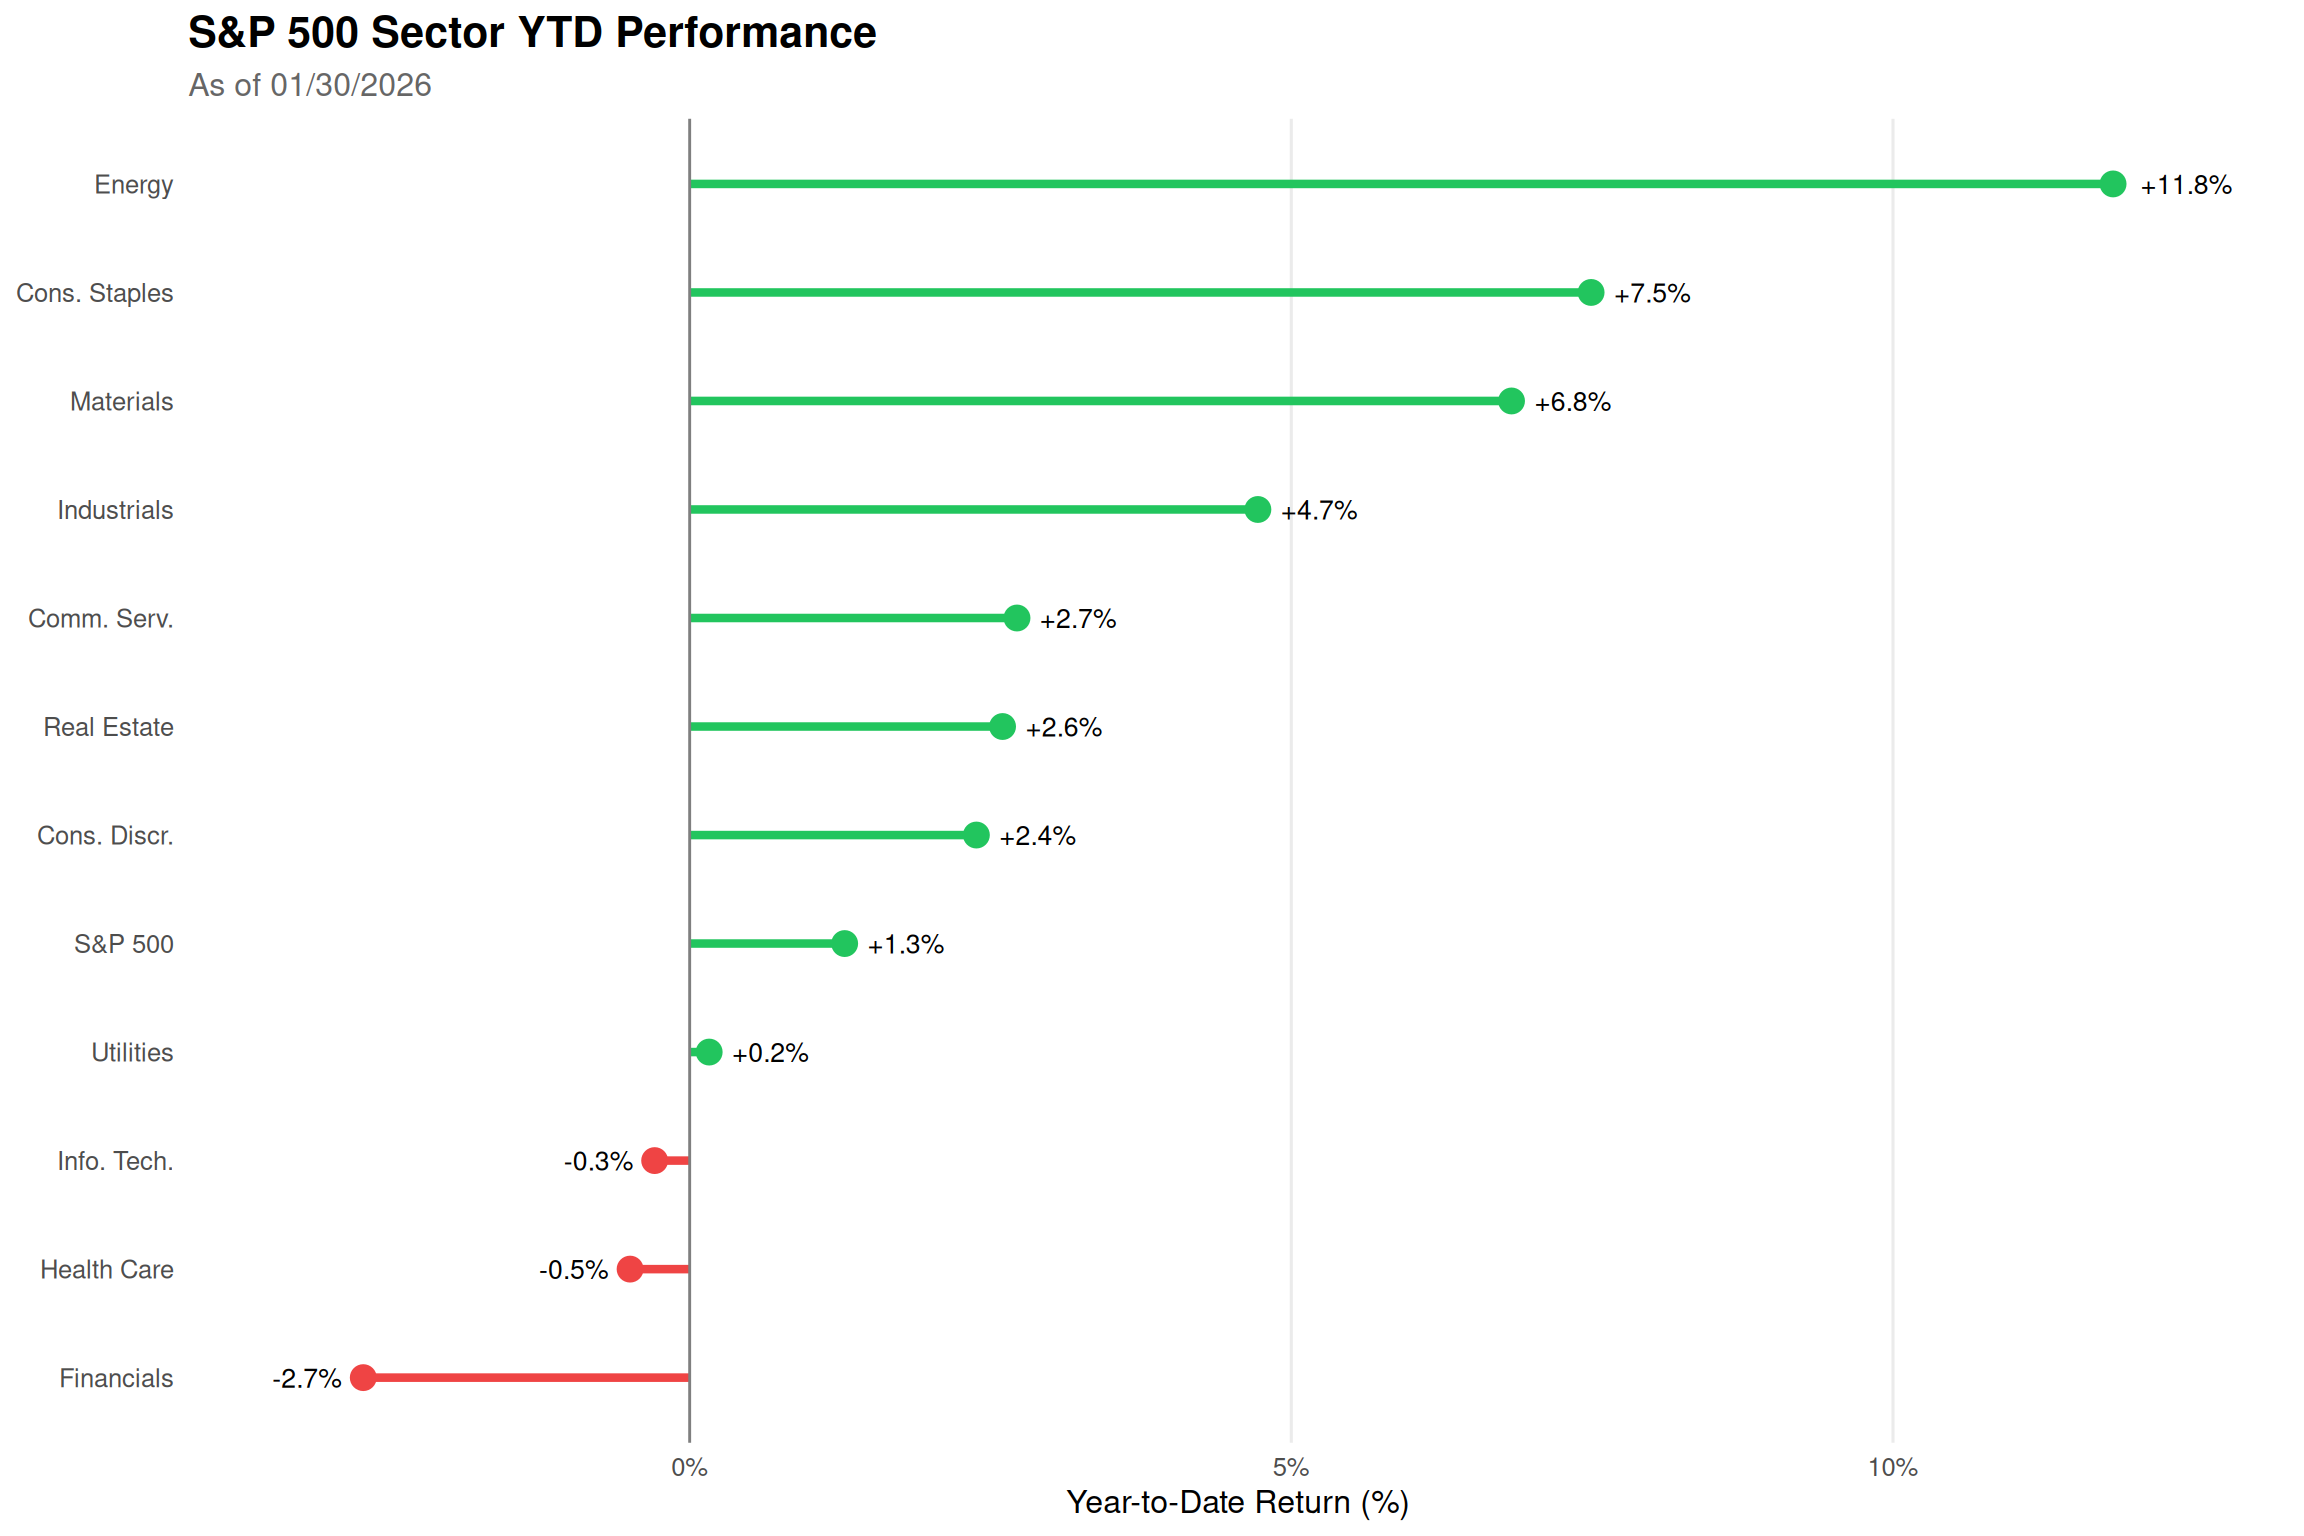
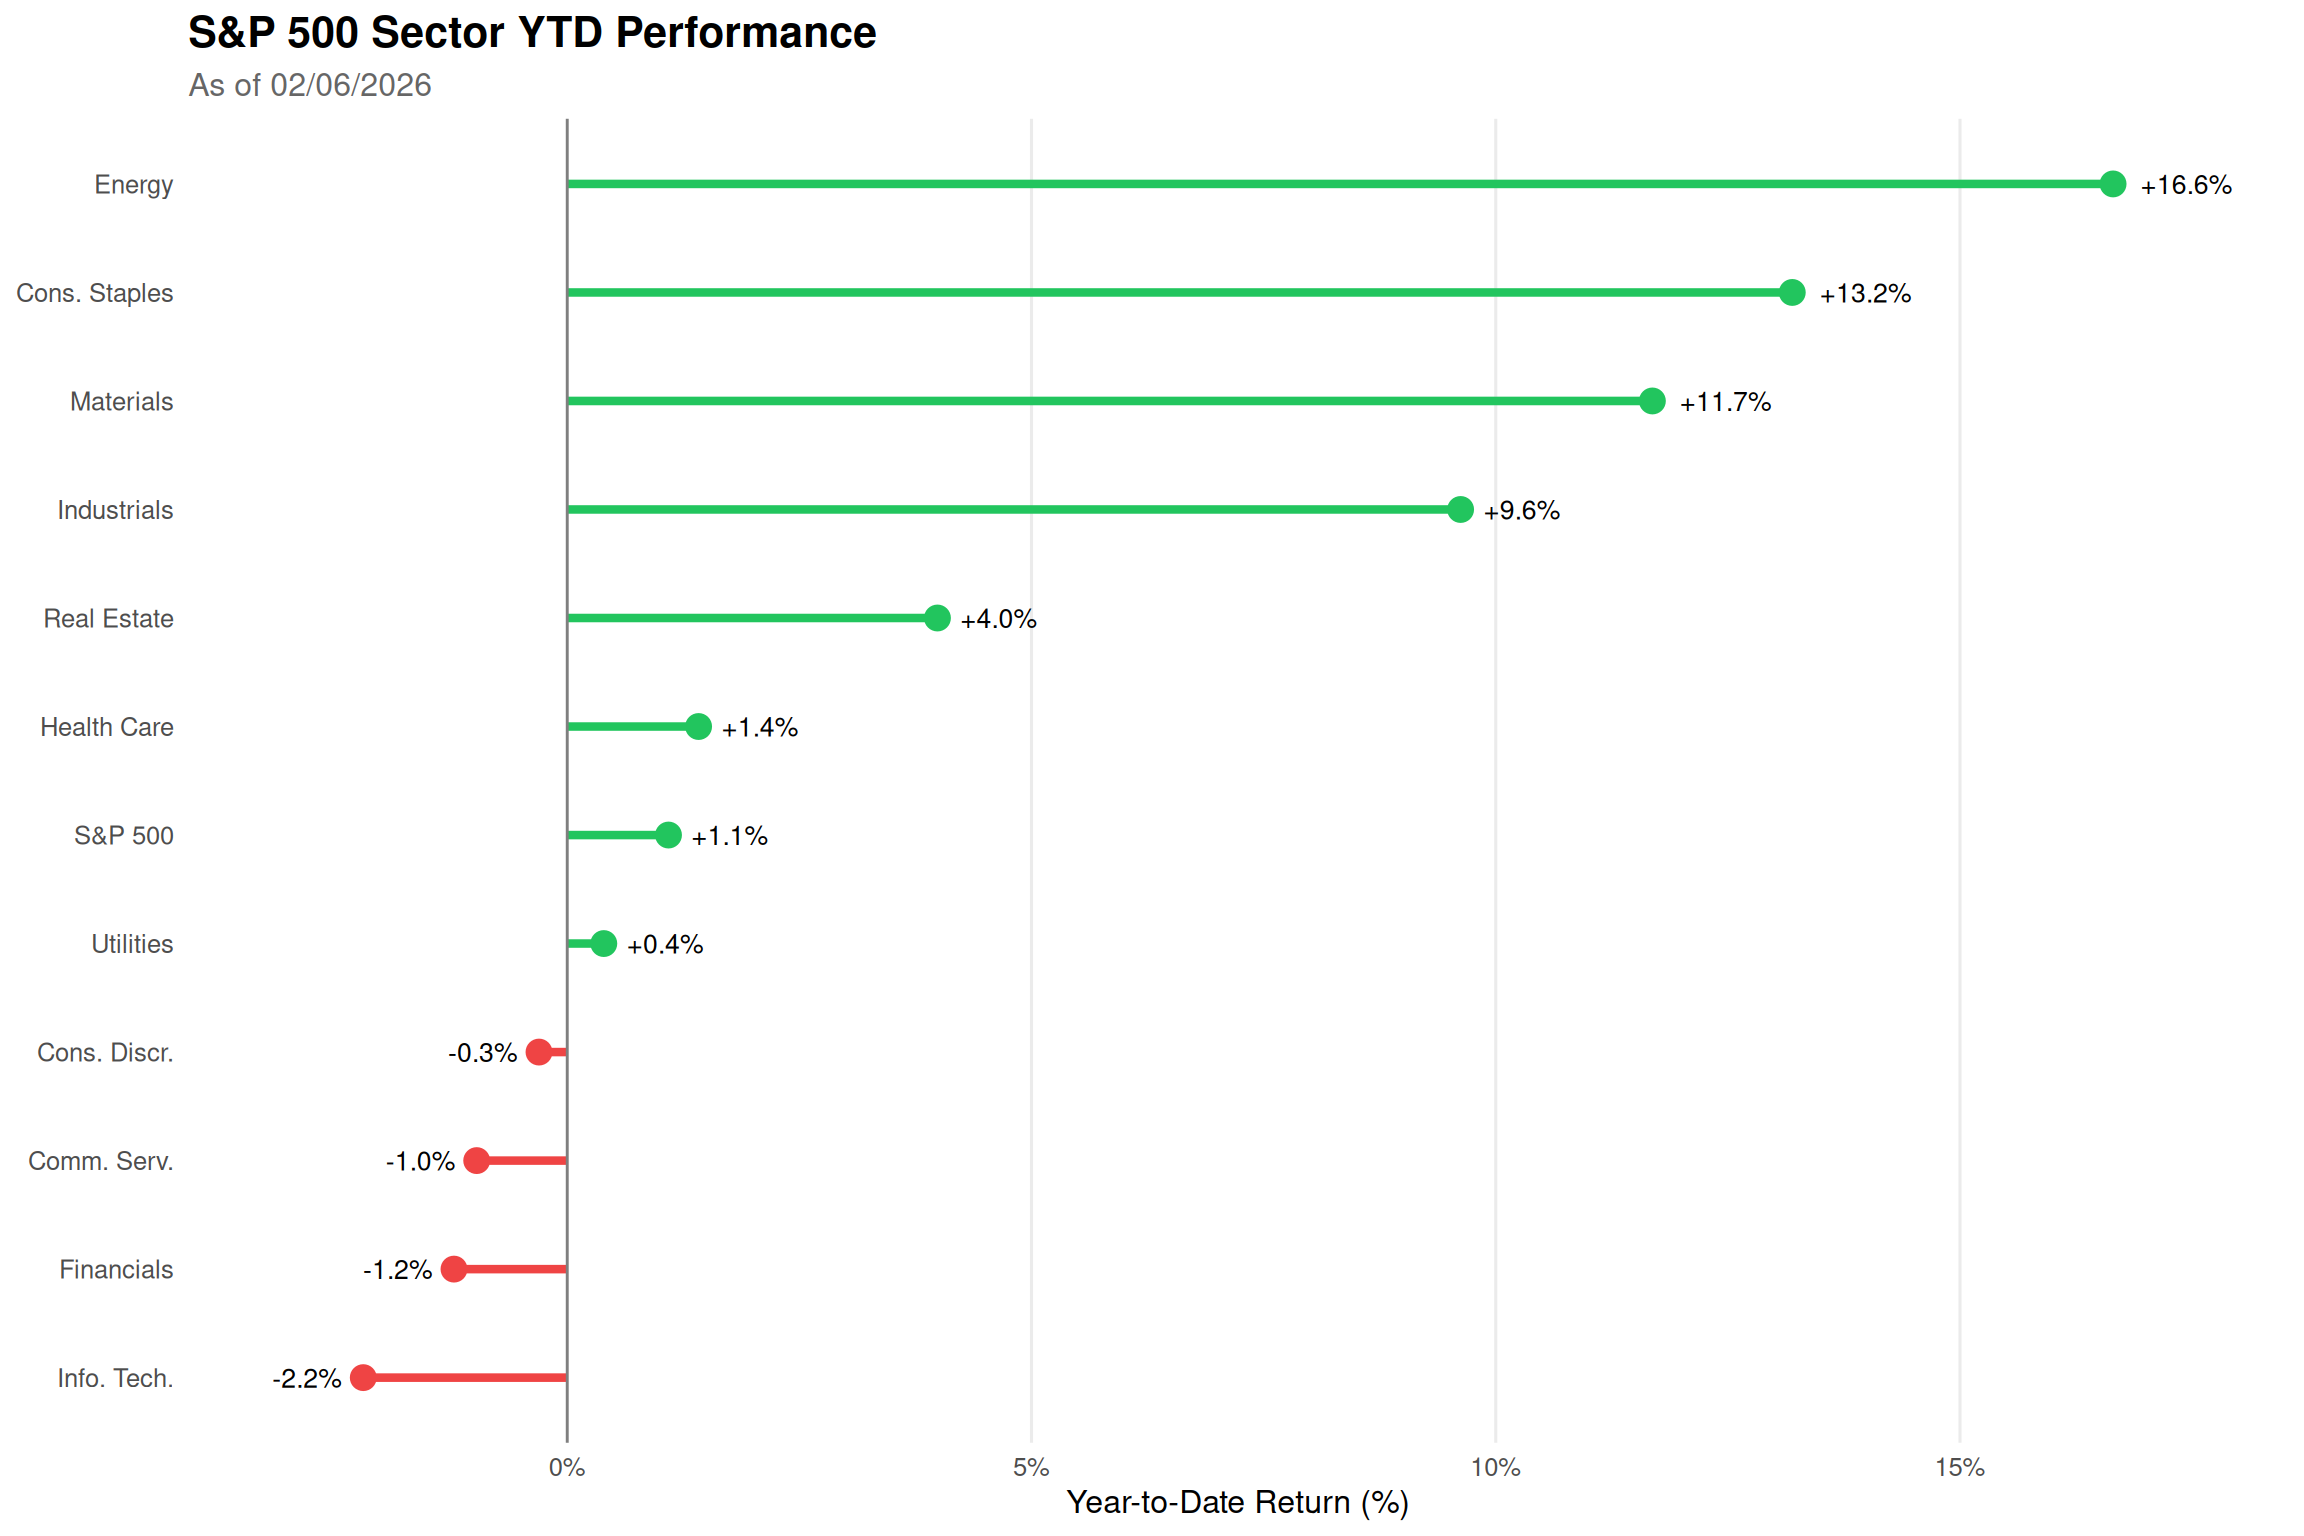
🎨 Render weekly posts (tidytuesday)

diff --git a/docs/quarto/latest/posts/2026-02-04-tidytuesday/index.html b/docs/quarto/latest/posts/2026-02-04-tidytuesday/index.html
@@ -391,7 +391,7 @@ pre > code.sourceCode > span > a:first-child::before { text-decoration: underlin
 </details>
 <div class="cell-output cell-output-stdout">
 <pre><code>Data loaded successfully!
-Records: 12Data date: 2026-01-30</code></pre>
+Records: 12Data date: 2026-02-06</code></pre>
 </div>
 </div>
 <div class="cell">
@@ -427,7 +427,7 @@ Columns: 4
 $ sector     &lt;fct&gt; Energy, Energy, Health Care, Health Care, Utilities, Utilit…
 $ sort_order &lt;int&gt; 0, 0, 1, 1, 2, 2, 3, 3, 4, 4, 5, 5, 6, 6, 7, 7, 8, 8, 9, 9,…
 $ metric     &lt;fct&gt; Daily, Year-to-date, Daily, Year-to-date, Daily, Year-to-da…
-$ value      &lt;dbl&gt; 1.06909708, 11.82912931, 0.59810046, -0.49513796, -0.184633…</code></pre>
+$ value      &lt;dbl&gt; 1.9919574, 16.6484079, 1.8535330, 1.4147079, 0.5800464, 0.3…</code></pre>
 </div>
 </div>
 </section>
@@ -530,63 +530,63 @@ $ value      &lt;dbl&gt; 1.06909708, 11.82912931, 0.59810046, -0.49513796, -0.18
 <tbody>
 <tr class="odd">
 <td style="text-align: left;">Energy</td>
-<td style="text-align: right;">+1.07%</td>
-<td style="text-align: right;">+11.83%</td>
+<td style="text-align: right;">+1.99%</td>
+<td style="text-align: right;">+16.65%</td>
 </tr>
 <tr class="even">
 <td style="text-align: left;">Health Care</td>
-<td style="text-align: right;">+0.60%</td>
-<td style="text-align: right;">-0.50%</td>
+<td style="text-align: right;">+1.85%</td>
+<td style="text-align: right;">+1.41%</td>
 </tr>
 <tr class="odd">
 <td style="text-align: left;">Utilities</td>
-<td style="text-align: right;">-0.18%</td>
-<td style="text-align: right;">+0.16%</td>
+<td style="text-align: right;">+0.58%</td>
+<td style="text-align: right;">+0.39%</td>
 </tr>
 <tr class="even">
 <td style="text-align: left;">Materials</td>
-<td style="text-align: right;">-1.46%</td>
-<td style="text-align: right;">+6.83%</td>
+<td style="text-align: right;">+2.00%</td>
+<td style="text-align: right;">+11.69%</td>
 </tr>
 <tr class="odd">
 <td style="text-align: left;">Real Estate</td>
-<td style="text-align: right;">+0.15%</td>
-<td style="text-align: right;">+2.60%</td>
+<td style="text-align: right;">+1.84%</td>
+<td style="text-align: right;">+3.99%</td>
 </tr>
 <tr class="even">
 <td style="text-align: left;">Financials</td>
-<td style="text-align: right;">-0.21%</td>
-<td style="text-align: right;">-2.71%</td>
+<td style="text-align: right;">+1.82%</td>
+<td style="text-align: right;">-1.22%</td>
 </tr>
 <tr class="odd">
 <td style="text-align: left;">Cons. Staples</td>
-<td style="text-align: right;">+1.68%</td>
-<td style="text-align: right;">+7.49%</td>
+<td style="text-align: right;">+1.17%</td>
+<td style="text-align: right;">+13.19%</td>
 </tr>
 <tr class="even">
 <td style="text-align: left;">Industrials</td>
-<td style="text-align: right;">-0.25%</td>
-<td style="text-align: right;">+4.72%</td>
+<td style="text-align: right;">+2.86%</td>
+<td style="text-align: right;">+9.62%</td>
 </tr>
 <tr class="odd">
 <td style="text-align: left;">S&amp;P 500</td>
-<td style="text-align: right;">-0.30%</td>
-<td style="text-align: right;">+1.29%</td>
+<td style="text-align: right;">+1.92%</td>
+<td style="text-align: right;">+1.09%</td>
 </tr>
 <tr class="even">
 <td style="text-align: left;">Comm. Serv.</td>
-<td style="text-align: right;">+0.24%</td>
-<td style="text-align: right;">+2.72%</td>
+<td style="text-align: right;">-0.39%</td>
+<td style="text-align: right;">-0.98%</td>
 </tr>
 <tr class="odd">
 <td style="text-align: left;">Info. Tech.</td>
-<td style="text-align: right;">-2.04%</td>
-<td style="text-align: right;">-0.29%</td>
+<td style="text-align: right;">+4.06%</td>
+<td style="text-align: right;">-2.20%</td>
 </tr>
 <tr class="even">
 <td style="text-align: left;">Cons. Discr.</td>
-<td style="text-align: right;">-0.02%</td>
-<td style="text-align: right;">+2.38%</td>
+<td style="text-align: right;">+0.41%</td>
+<td style="text-align: right;">-0.30%</td>
 </tr>
 </tbody>
 </table>

diff --git a/docs/quarto/latest/posts/2026-01-28-tidytuesday/index.html b/docs/quarto/latest/posts/2026-01-28-tidytuesday/index.html
@@ -110,7 +110,9 @@ pre > code.sourceCode > span > a:first-child::before { text-decoration: underlin
 
 <meta name="twitter:title" content="TidyTuesday: Risk Exposure Analysis">
 <meta name="twitter:description" content="Cash Reserve vs Margin Exposure time series with ggplot2">
-<meta name="twitter:image" content="https://chiquitos-jp.github.io/trading-dashboard/quarto/latest/posts/2026-01-28-tidytuesday/thumbnail.svg">
+<meta name="twitter:image" content="https://chiquitos-jp.github.io/trading-dashboard/quarto/latest/posts/2026-01-28-tidytuesday/thumbnail.png">
+<meta name="twitter:image-height" content="300">
+<meta name="twitter:image-width" content="400">
 <meta name="twitter:card" content="summary_large_image">
 </head>
 
@@ -1375,7 +1377,7 @@ pre > code.sourceCode > span > a:first-child::before { text-decoration: underlin
 <span id="cb36-4"><a href="#cb36-4" aria-hidden="true" tabindex="-1"></a><span class="an">date:</span><span class="co"> "2026-01-28"</span></span>
 <span id="cb36-5"><a href="#cb36-5" aria-hidden="true" tabindex="-1"></a><span class="an">author:</span><span class="co"> "chokotto"</span></span>
 <span id="cb36-6"><a href="#cb36-6" aria-hidden="true" tabindex="-1"></a><span class="an">categories:</span><span class="co"> ["TidyTuesday", "Data Viz", "R", "Finance", "Trading", "Risk"]</span></span>
-<span id="cb36-7"><a href="#cb36-7" aria-hidden="true" tabindex="-1"></a><span class="an">image:</span><span class="co"> "thumbnail.svg"</span></span>
+<span id="cb36-7"><a href="#cb36-7" aria-hidden="true" tabindex="-1"></a><span class="an">image:</span><span class="co"> "thumbnail.png"</span></span>
 <span id="cb36-8"><a href="#cb36-8" aria-hidden="true" tabindex="-1"></a><span class="an">engine:</span><span class="co"> knitr</span></span>
 <span id="cb36-9"><a href="#cb36-9" aria-hidden="true" tabindex="-1"></a><span class="an">freeze:</span><span class="co"> false</span></span>
 <span id="cb36-10"><a href="#cb36-10" aria-hidden="true" tabindex="-1"></a><span class="an">execute:</span></span>
@@ -1387,7 +1389,7 @@ pre > code.sourceCode > span > a:first-child::before { text-decoration: underlin
 <span id="cb36-16"><a href="#cb36-16" aria-hidden="true" tabindex="-1"></a></span>
 <span id="cb36-17"><a href="#cb36-17" aria-hidden="true" tabindex="-1"></a><span class="an">twitter-card:</span></span>
 <span id="cb36-18"><a href="#cb36-18" aria-hidden="true" tabindex="-1"></a><span class="co">  card-type: summary_large_image</span></span>
-<span id="cb36-19"><a href="#cb36-19" aria-hidden="true" tabindex="-1"></a><span class="co">  image: "thumbnail.svg"</span></span>
+<span id="cb36-19"><a href="#cb36-19" aria-hidden="true" tabindex="-1"></a><span class="co">  image: "thumbnail.png"</span></span>
 <span id="cb36-20"><a href="#cb36-20" aria-hidden="true" tabindex="-1"></a><span class="co">  title: "TidyTuesday: Risk Exposure Analysis"</span></span>
 <span id="cb36-21"><a href="#cb36-21" aria-hidden="true" tabindex="-1"></a><span class="co">  description: "Cash Reserve vs Margin Exposure time series with ggplot2"</span></span>
 <span id="cb36-22"><a href="#cb36-22" aria-hidden="true" tabindex="-1"></a><span class="co">---</span></span>

diff --git a/docs/quarto/latest/posts/2026-01-21-tidytuesday/index.html b/docs/quarto/latest/posts/2026-01-21-tidytuesday/index.html
@@ -110,7 +110,9 @@ pre > code.sourceCode > span > a:first-child::before { text-decoration: underlin
 
 <meta name="twitter:title" content="TidyTuesday: Trading P/L Calendar">
 <meta name="twitter:description" content="Daily profit/loss calendar heatmap with ggplot2">
-<meta name="twitter:image" content="https://chiquitos-jp.github.io/trading-dashboard/quarto/latest/posts/2026-01-21-tidytuesday/thumbnail.svg">
+<meta name="twitter:image" content="https://chiquitos-jp.github.io/trading-dashboard/quarto/latest/posts/2026-01-21-tidytuesday/thumbnail.png">
+<meta name="twitter:image-height" content="250">
+<meta name="twitter:image-width" content="400">
 <meta name="twitter:card" content="summary_large_image">
 </head>
 
@@ -1306,7 +1308,7 @@ pre > code.sourceCode > span > a:first-child::before { text-decoration: underlin
 <span id="cb28-4"><a href="#cb28-4" aria-hidden="true" tabindex="-1"></a><span class="an">date:</span><span class="co"> "2026-01-21"</span></span>
 <span id="cb28-5"><a href="#cb28-5" aria-hidden="true" tabindex="-1"></a><span class="an">author:</span><span class="co"> "chokotto"</span></span>
 <span id="cb28-6"><a href="#cb28-6" aria-hidden="true" tabindex="-1"></a><span class="an">categories:</span><span class="co"> ["TidyTuesday", "Data Viz", "R", "Finance", "Trading"]</span></span>
-<span id="cb28-7"><a href="#cb28-7" aria-hidden="true" tabindex="-1"></a><span class="an">image:</span><span class="co"> "thumbnail.svg"</span></span>
+<span id="cb28-7"><a href="#cb28-7" aria-hidden="true" tabindex="-1"></a><span class="an">image:</span><span class="co"> "thumbnail.png"</span></span>
 <span id="cb28-8"><a href="#cb28-8" aria-hidden="true" tabindex="-1"></a><span class="an">engine:</span><span class="co"> knitr</span></span>
 <span id="cb28-9"><a href="#cb28-9" aria-hidden="true" tabindex="-1"></a><span class="an">freeze:</span><span class="co"> false</span></span>
 <span id="cb28-10"><a href="#cb28-10" aria-hidden="true" tabindex="-1"></a><span class="an">execute:</span></span>
@@ -1318,7 +1320,7 @@ pre > code.sourceCode > span > a:first-child::before { text-decoration: underlin
 <span id="cb28-16"><a href="#cb28-16" aria-hidden="true" tabindex="-1"></a></span>
 <span id="cb28-17"><a href="#cb28-17" aria-hidden="true" tabindex="-1"></a><span class="an">twitter-card:</span></span>
 <span id="cb28-18"><a href="#cb28-18" aria-hidden="true" tabindex="-1"></a><span class="co">  card-type: summary_large_image</span></span>
-<span id="cb28-19"><a href="#cb28-19" aria-hidden="true" tabindex="-1"></a><span class="co">  image: "thumbnail.svg"</span></span>
+<span id="cb28-19"><a href="#cb28-19" aria-hidden="true" tabindex="-1"></a><span class="co">  image: "thumbnail.png"</span></span>
 <span id="cb28-20"><a href="#cb28-20" aria-hidden="true" tabindex="-1"></a><span class="co">  title: "TidyTuesday: Trading P/L Calendar"</span></span>
 <span id="cb28-21"><a href="#cb28-21" aria-hidden="true" tabindex="-1"></a><span class="co">  description: "Daily profit/loss calendar heatmap with ggplot2"</span></span>
 <span id="cb28-22"><a href="#cb28-22" aria-hidden="true" tabindex="-1"></a><span class="co">---</span></span>

diff --git a/docs/quarto/latest/posts/2026-01-07-tidytuesday/index.html b/docs/quarto/latest/posts/2026-01-07-tidytuesday/index.html
@@ -110,7 +110,9 @@ pre > code.sourceCode > span > a:first-child::before { text-decoration: underlin
 
 <meta name="twitter:title" content="TidyTuesday: Sample Analysis">
 <meta name="twitter:description" content="A sample TidyTuesday post demonstrating the template structure">
-<meta name="twitter:image" content="https://chiquitos-jp.github.io/trading-dashboard/quarto/latest/posts/2026-01-07-tidytuesday/thumbnail.svg">
+<meta name="twitter:image" content="https://chiquitos-jp.github.io/trading-dashboard/quarto/latest/posts/2026-01-07-tidytuesday/thumbnail.png">
+<meta name="twitter:image-height" content="400">
+<meta name="twitter:image-width" content="800">
 <meta name="twitter:card" content="summary_large_image">
 </head>
 
